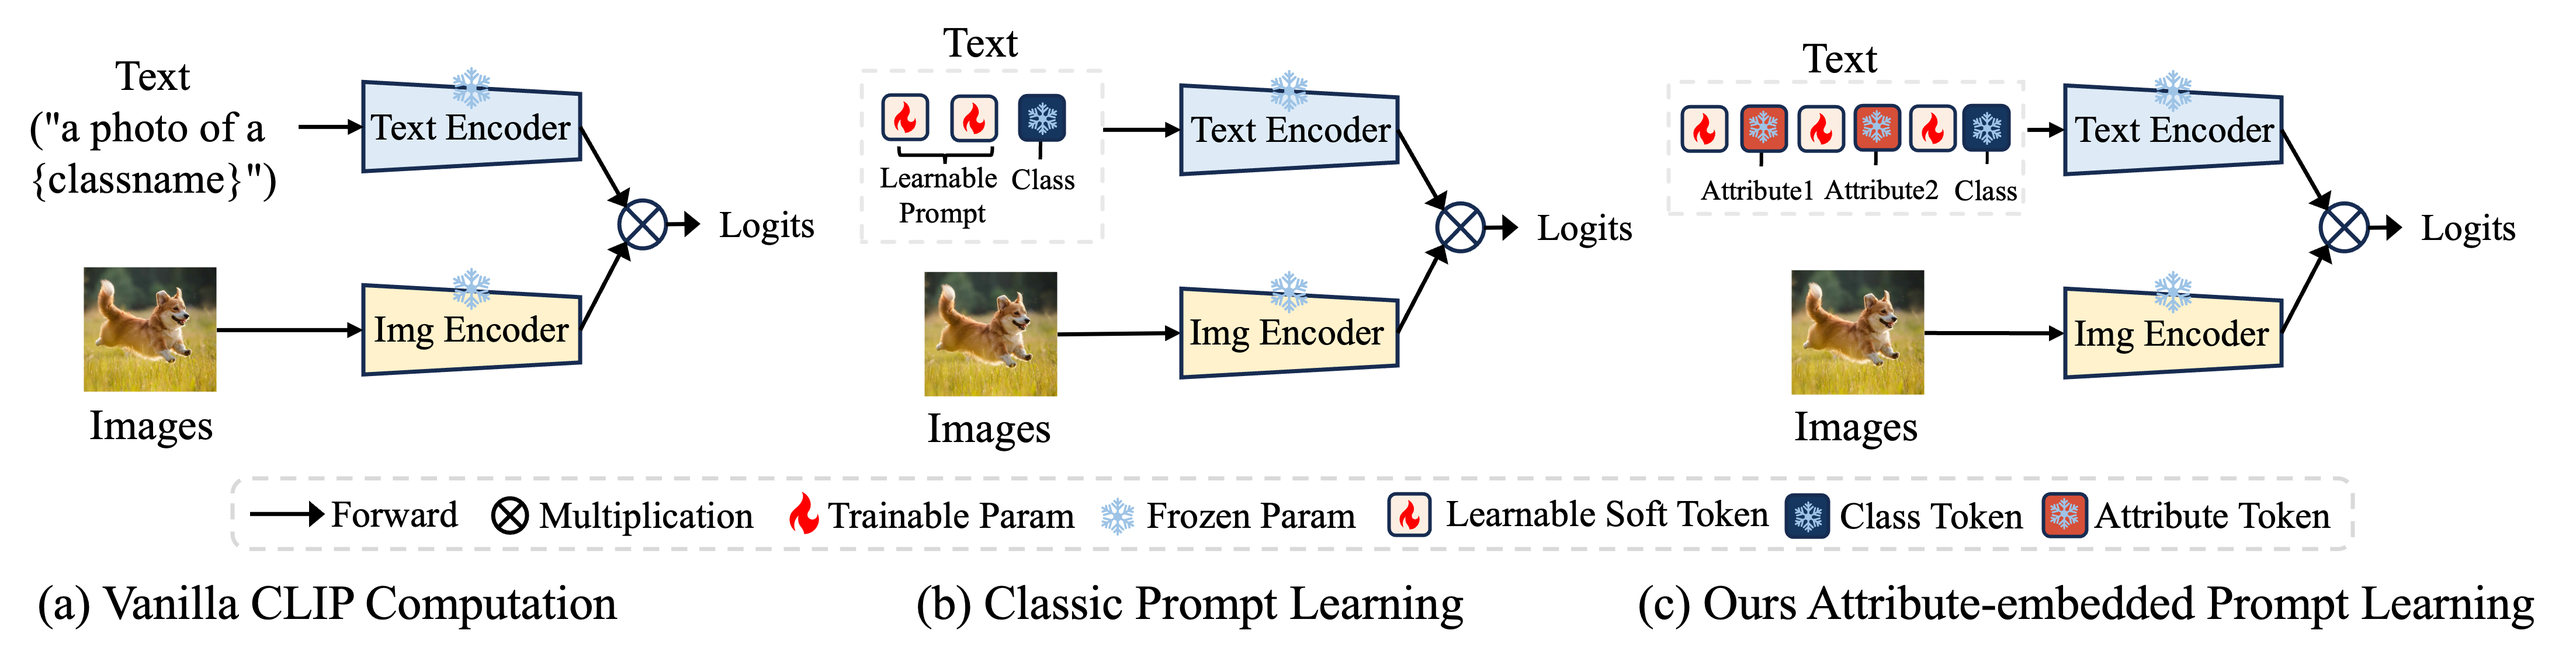
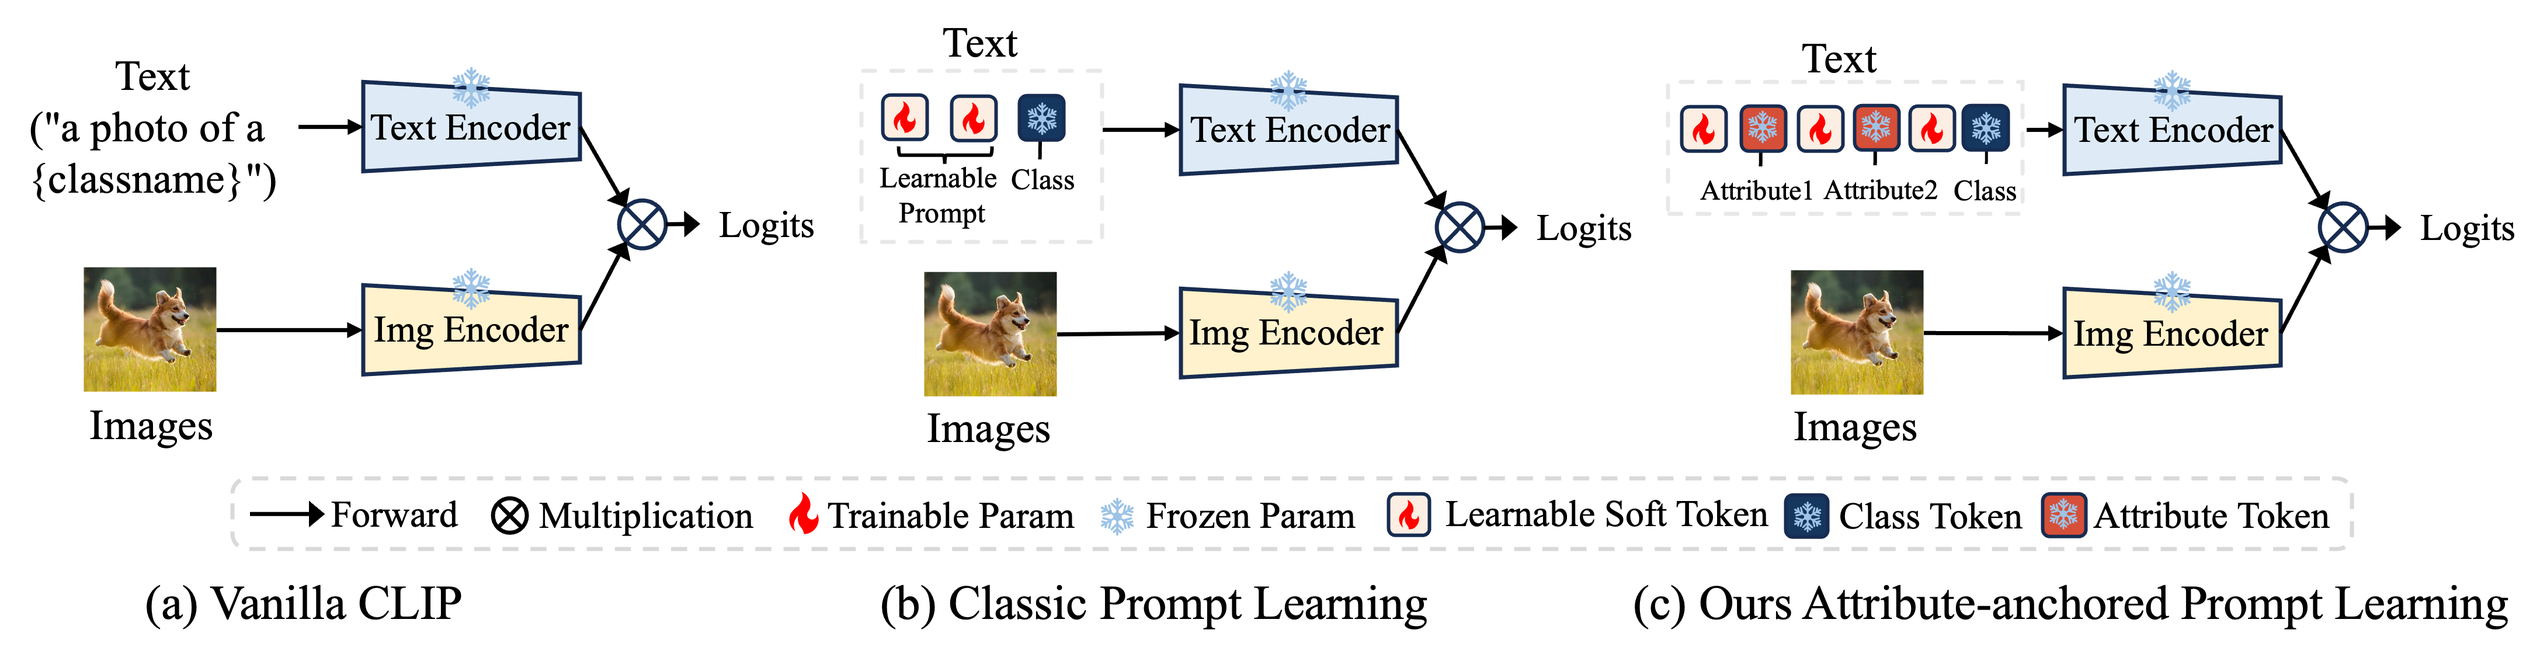
update

diff --git a/README.md b/README.md
@@ -34,14 +34,14 @@
 
 In this work, we introduce an attribute-anchored textual prompt learning method for vision-language models, named ATPrompt.
 
-This method extends the learning space of soft prompts from the original one-dimensional category level to the multi-dimensional attribute level by embedding multiple fixed universal attribute tokens into the learnable soft prompts. 
+This method extends the learning space of soft prompts from the original one-dimensional category level to the multi-dimensional attribute level by incorporating multiple universal attribute tokens into the learnable soft prompts. 
 
-Guided by these attributes, soft prompts acquire not only category-specific but also attribute-related general representations during training, thereby enhancing the alignment between images and unknown categories compared to the original method.
+Guided by these attributes, soft tokens acquire not only category-specific but also attribute-related general representations during training, thereby enhancing the alignment between images and unknown categories compared to the original method.
 
 ## Framework
 
 <div style="text-align:center"><img src="images/attribute_compare.png" width="100%"></div>
-<figcaption class="content has-text-left"  style="word-break:normal">Figure 1. Architectural comparison among vanilla CLIP, classic prompt learning, and our proposed attribute-embedded prompt learning. </figcaption>
+<figcaption class="content has-text-left"  style="word-break:normal">Figure 1. Architectural comparison among vanilla CLIP, classic prompt learning, and our proposed attribute-anchored prompt learning. </figcaption>
 
 <br>
 
